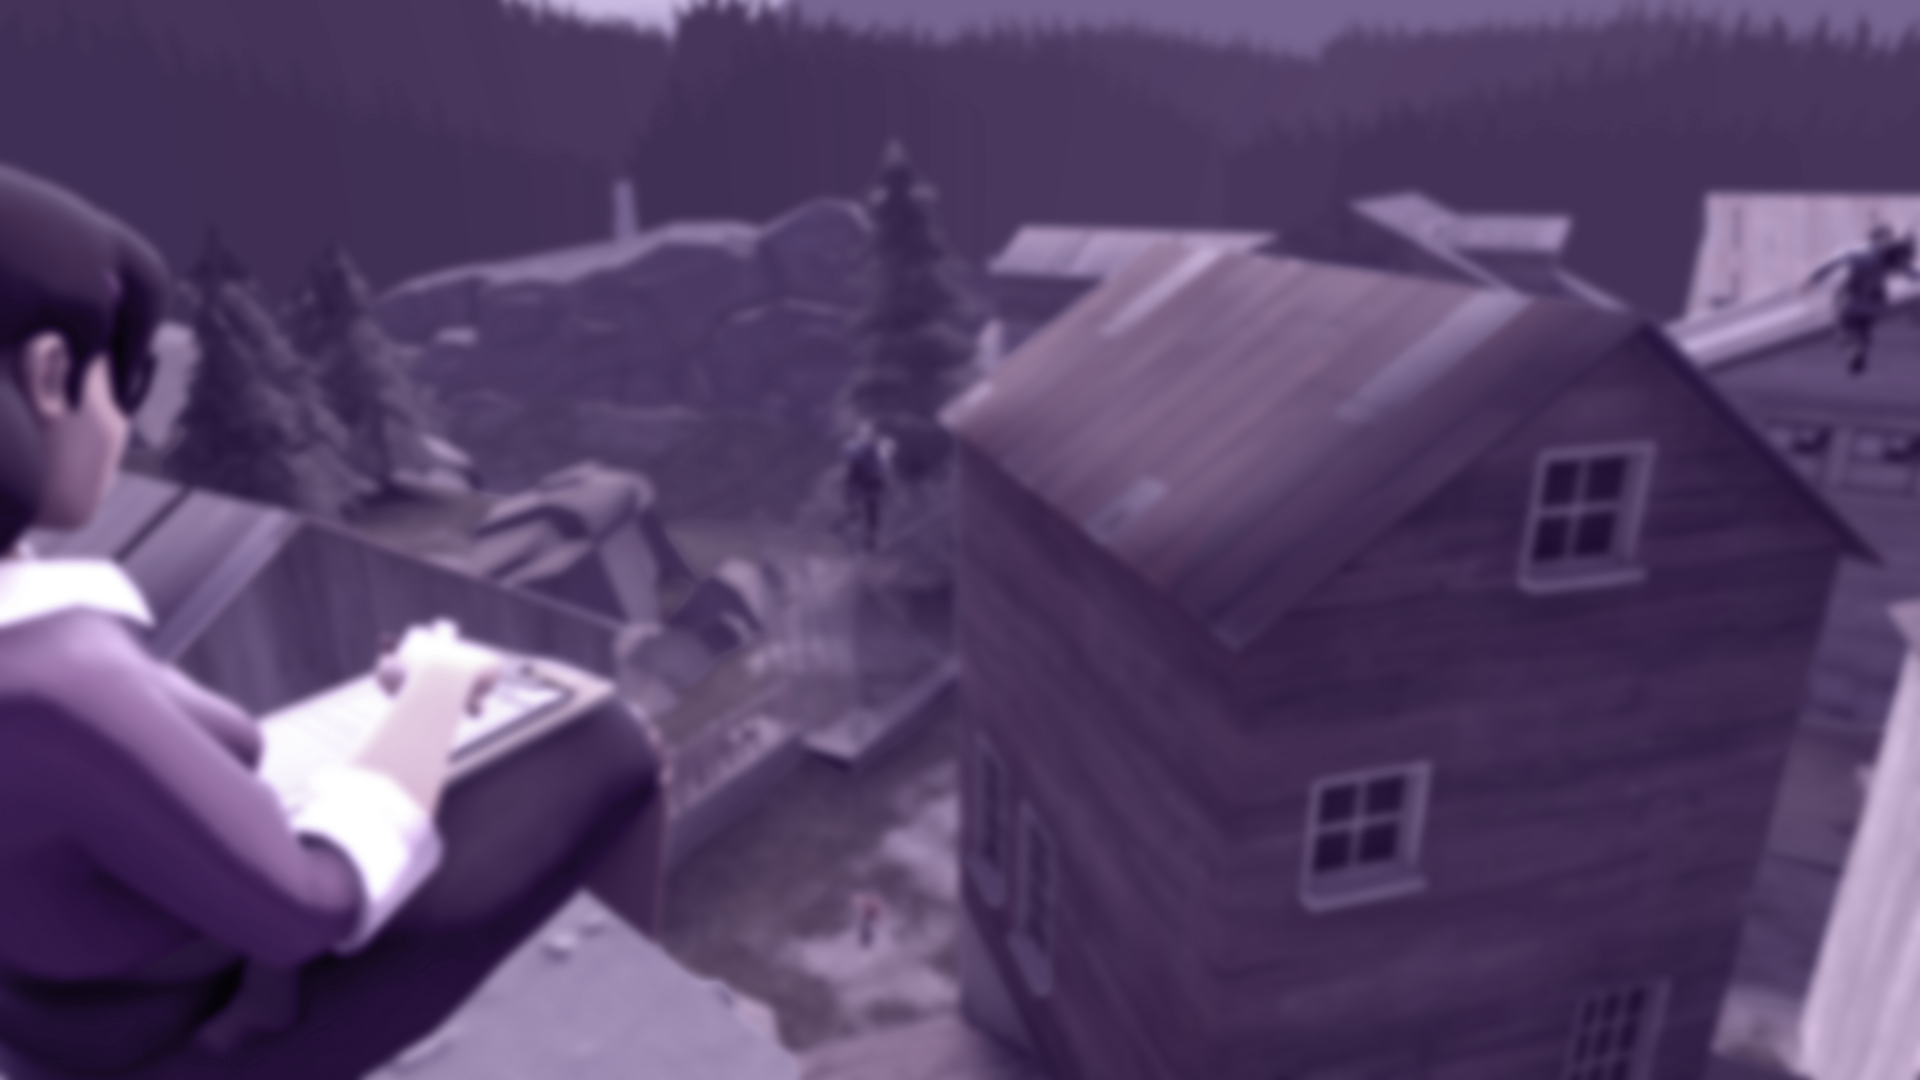
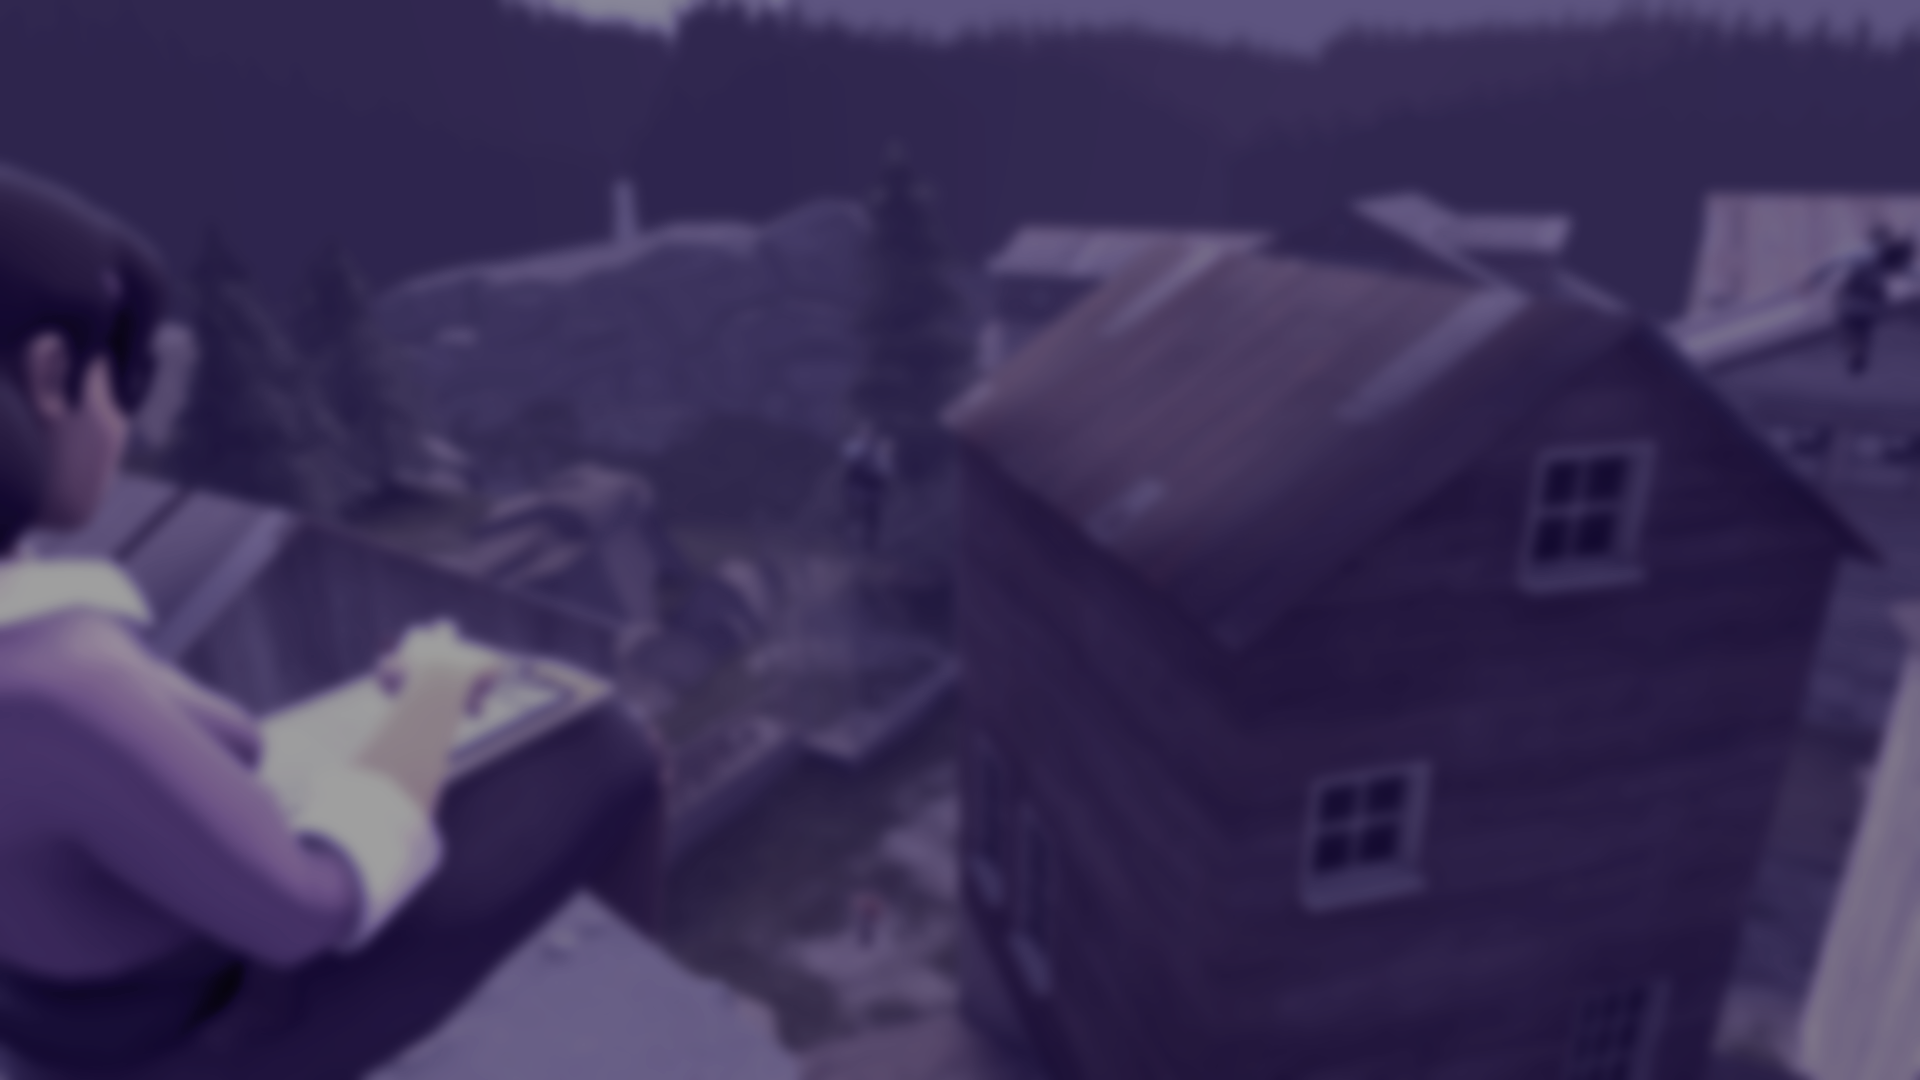
Update theme some more.

diff --git a/public/elements/pugchamp-theme/theme.html b/public/elements/pugchamp-theme/theme.html
@@ -1,6 +1,6 @@
-<link rel="import" href="../polymer/polymer.html">
+<link rel="import" href="/components/polymer/polymer.html">
 
-<link rel="import" href="color.html">
+<link rel="import" href="/components/paper-styles/color.html">
 
 <style is="custom-style">
     :root {
@@ -10,13 +10,13 @@
         --disabled-text-color: var(--dark-theme-disabled-color);
         --divider-color: var(--dark-theme-divider-color);
 
-        --primary-color: var(--pugchamp-purple-500);
-        --light-primary-color: var(--pugchamp-purple-100);
-        --dark-primary-color: var(--pugchamp-purple-700);
+        --primary-color: var(--paper-deep-purple-800);
+        --light-primary-color: var(--paper-deep-purple-700);
+        --dark-primary-color: var(--paper-deep-purple-900);
 
-        --accent-color: var(--pugchamp-gold-a400);
-        --light-accent-color: var(--pugchamp-gold-a200);
-        --dark-accent-color: var(--pugchamp-gold-a700);
+        --accent-color: var(--paper-amber-700);
+        --light-accent-color: var(--paper-amber-500);
+        --dark-accent-color: var(--paper-amber-900);
 
         --light-theme-background-color: #ffffff;
         --light-theme-base-color: #000000;
@@ -34,5 +34,7 @@
 
         --text-primary-color: var(--dark-theme-text-color);
         --default-primary-color: var(--primary-color);
+
+        --box-background-color: rgba(0, 0, 0, 0.5);
     }
 </style>

diff --git a/public/elements/pugchamp-launchpad/pugchamp-launchpad.html b/public/elements/pugchamp-launchpad/pugchamp-launchpad.html
@@ -21,7 +21,7 @@
     <template>
         <style is="custom-style">
             #holds {
-                background: rgba(0, 0, 0, 0.5);
+                background: var(--box-background-color);
             }
 
             .hold {
@@ -39,7 +39,7 @@
             }
 
             #captains {
-                background: rgba(0, 0, 0, 0.5);
+                background: var(--box-background-color);
                 margin: 16px 0;
                 padding: 0 16px;
             }
@@ -49,7 +49,7 @@
             }
 
             #ready {
-                background: rgba(0, 0, 0, 0.5);
+                background: var(--box-background-color);
                 padding: 5px 25px;
                 margin: 20px;
             }
@@ -81,11 +81,11 @@
             }
 
             .role {
-                background: rgba(0, 0, 0, 0.5);
+                background: var(--box-background-color);
             }
 
             .player {
-                background: rgba(0, 0, 0, 0.5);
+                background: var(--box-background-color);
                 min-height: inherit;
                 height: 32px;
             }

diff --git a/public/elements/pugchamp-draft/pugchamp-draft.html b/public/elements/pugchamp-draft/pugchamp-draft.html
@@ -23,7 +23,7 @@
 
             .draft-turn {
                 @apply(--paper-font-caption);
-                background: rgba(0, 0, 0, 0.5);
+                background: var(--box-background-color);
                 min-width: 100px;
                 padding: 5px;
                 text-align: center;
@@ -72,7 +72,7 @@
             }
 
             .map {
-                background: rgba(0, 0, 0, 0.5);
+                background: var(--box-background-color);
                 margin: 5px;
                 text-align: center;
             }
@@ -112,11 +112,11 @@
             }
 
             #playerPool .role {
-                background: rgba(0, 0, 0, 0.5);
+                background: var(--box-background-color);
             }
 
             #playerPool .player {
-                background: rgba(0, 0, 0, 0.5);
+                background: var(--box-background-color);
                 min-height: inherit;
                 height: 32px;
             }

diff --git a/public/elements/pugchamp-substitute-requests/pugchamp-substitute-requests.html b/public/elements/pugchamp-substitute-requests/pugchamp-substitute-requests.html
@@ -6,13 +6,14 @@
 <link rel="import" href="/elements/pugchamp-client/pugchamp-client-base-behavior.html">
 <link rel="import" href="/elements/pugchamp-client/pugchamp-client-restrictions-behavior.html">
 <link rel="import" href="/elements/pugchamp-client/pugchamp-client-user-behavior.html">
+<link rel="import" href="/elements/pugchamp-theme/theme.html">
 <link rel="import" href="/elements/pugchamp-utilities/pugchamp-polymer-helpers.html">
 
 <dom-module id="pugchamp-substitute-requests">
     <template>
         <style is="custom-style">
             .request {
-                background: rgba(0, 0, 0, 0.5);
+                background: var(--box-background-color);
                 padding: 5px 25px;
                 margin: 20px;
             }

diff --git a/public/elements/pugchamp-current-game/pugchamp-current-game.html b/public/elements/pugchamp-current-game/pugchamp-current-game.html
@@ -12,6 +12,7 @@
 <link rel="import" href="/elements/pugchamp-client/pugchamp-client-base-behavior.html">
 <link rel="import" href="/elements/pugchamp-client/pugchamp-client-user-behavior.html">
 <link rel="import" href="/elements/pugchamp-notification/pugchamp-notification.html">
+<link rel="import" href="/elements/pugchamp-theme/theme.html">
 <link rel="import" href="/elements/pugchamp-utilities/pugchamp-polymer-helpers.html">
 
 <dom-module id="pugchamp-current-game">
@@ -23,7 +24,7 @@
             }
 
             #game {
-                background: rgba(0, 0, 0, 0.5);
+                background: --box-background-color;
                 padding: 5px 25px;
                 margin: 20px;
             }

diff --git a/public/elements/pugchamp-game-summary/pugchamp-game-summary.html b/public/elements/pugchamp-game-summary/pugchamp-game-summary.html
@@ -5,13 +5,14 @@
 <link rel="import" href="/components/paper-styles/color.html">
 <link rel="import" href="/components/paper-styles/typography.html">
 
+<link rel="import" href="/elements/pugchamp-theme/theme.html">
 <link rel="import" href="/elements/pugchamp-utilities/pugchamp-polymer-helpers.html">
 
 <dom-module id="pugchamp-game-summary">
     <template>
         <style is="custom-style">
             #match {
-                background: rgba(0, 0, 0, 0.5);
+                background: var(--box-background-color);
                 margin: 5px;
             }
 

diff --git a/public/elements/pugchamp-chat/pugchamp-chat.html b/public/elements/pugchamp-chat/pugchamp-chat.html
@@ -25,7 +25,7 @@
             }
 
             .message {
-                background: rgba(0, 0, 0, 0.5);
+                background: var(--box-background-color);
                 margin: 5px;
                 padding: 5px;
             }
